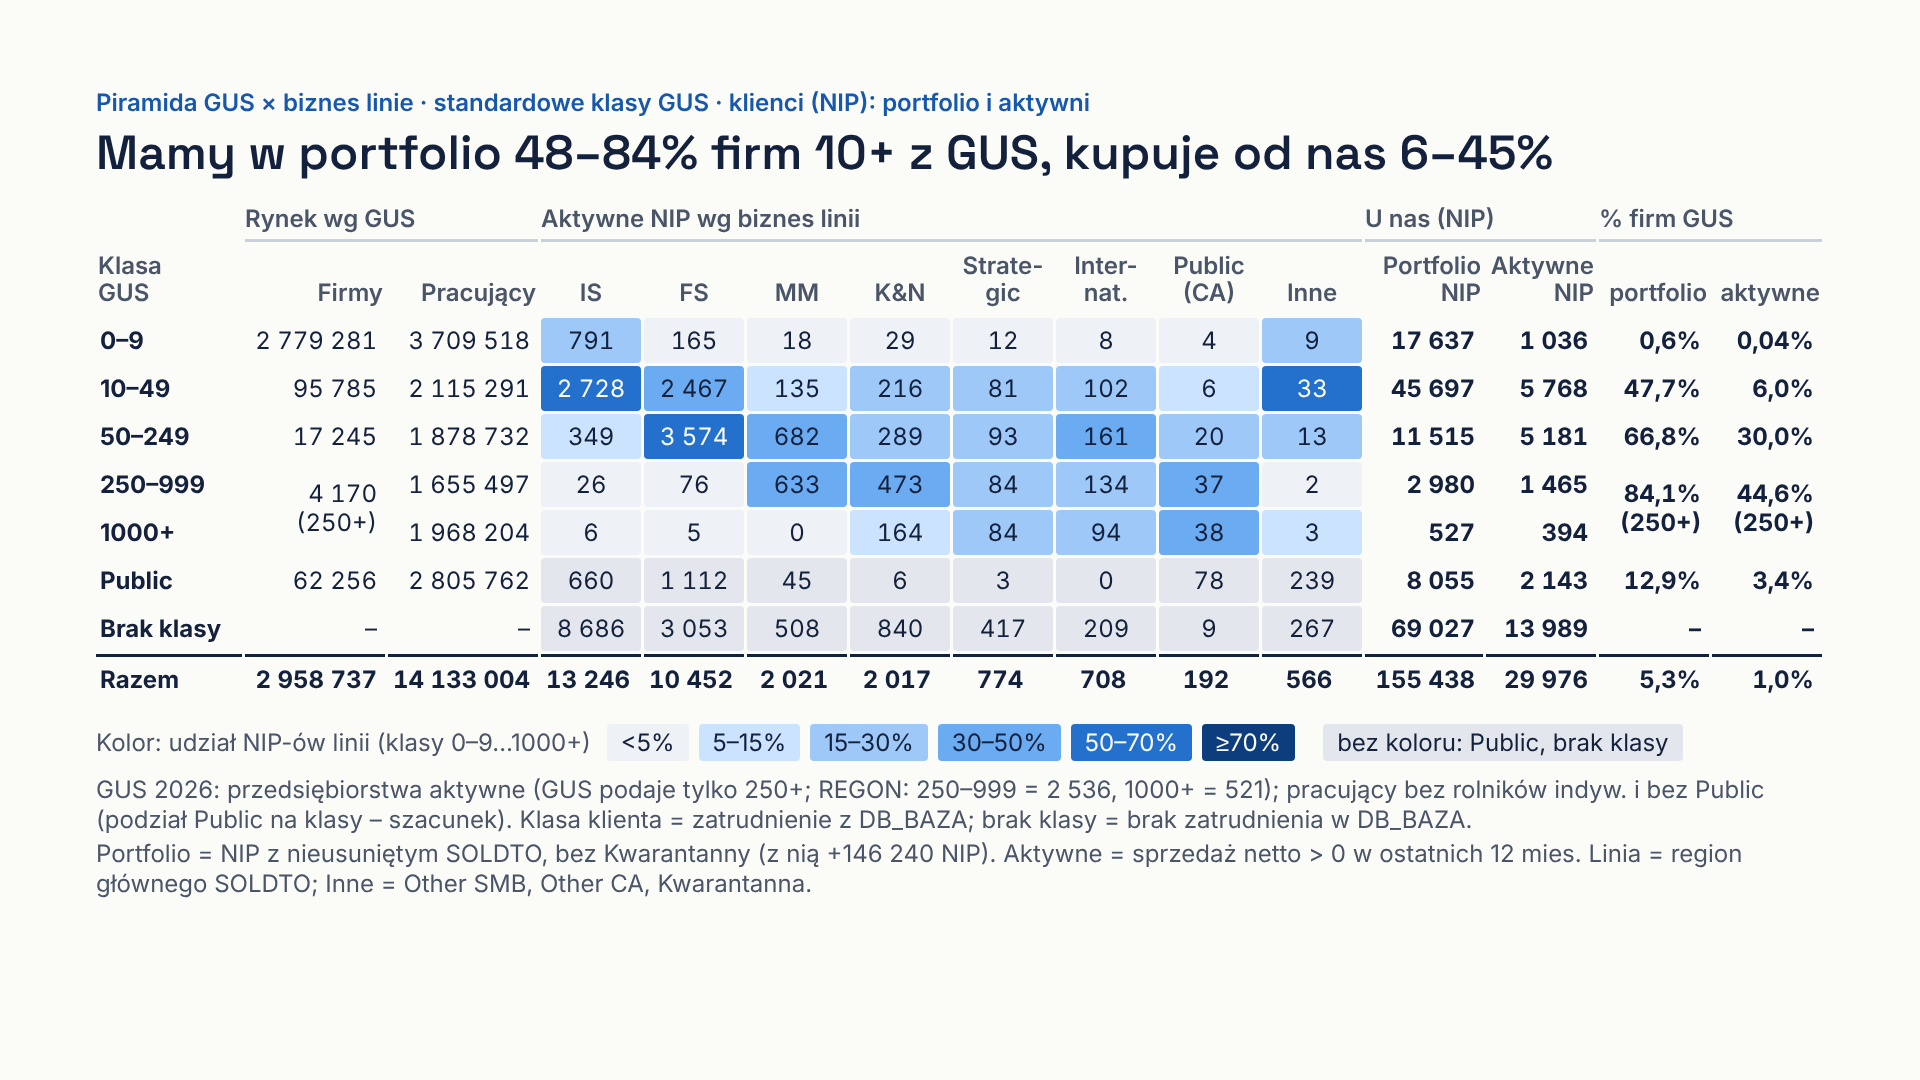
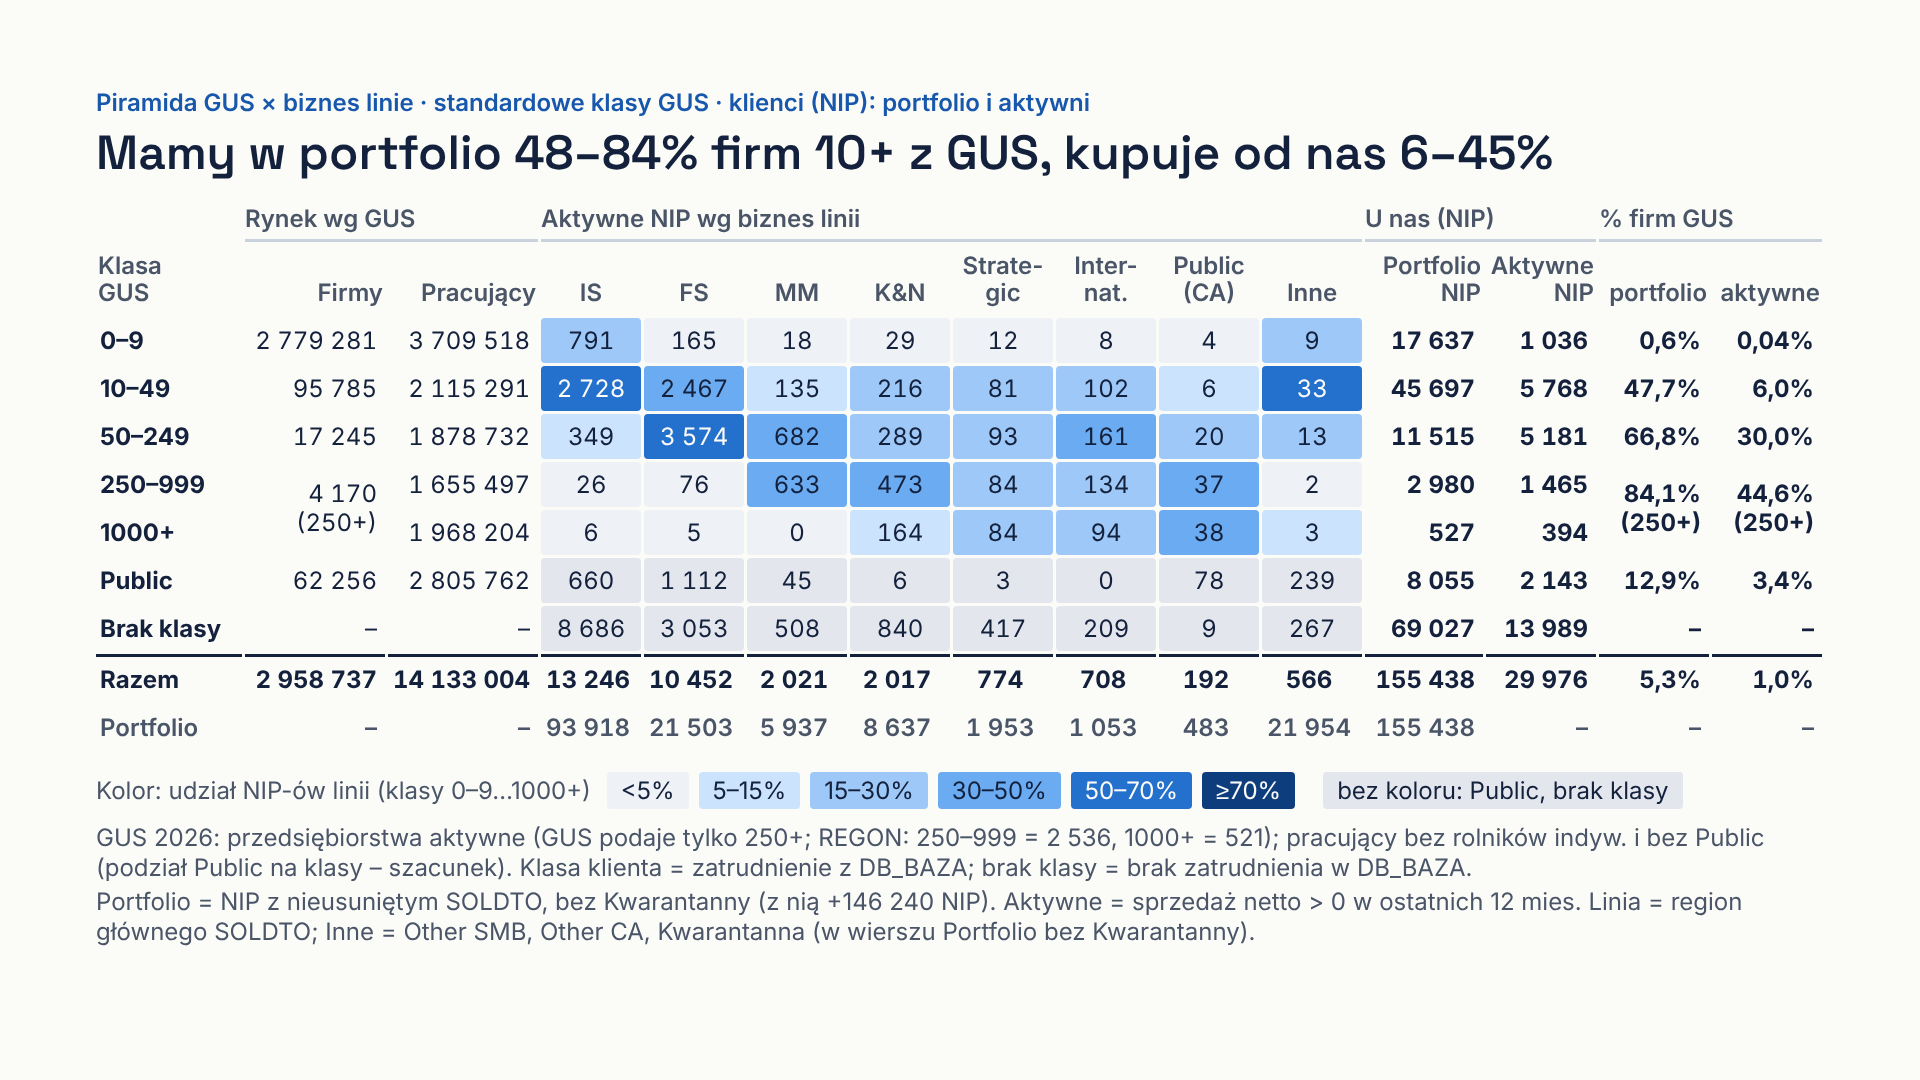
Slajd GUS x biznes linie: wiersz Portfolio NIP wg biznes linii (D26, bez Kwarantanny)
Claude-Session: https://claude.ai/code/session_01XKqyymM4iGumhJbEjTSpGW

Changed region(s): [[0.0312, 0.6417, 0.9062, 0.8861]]

diff --git a/piramida_klientow/prezentacja/slajd_gus_x_biznes_linie/slides/macierz.html b/piramida_klientow/prezentacja/slajd_gus_x_biznes_linie/slides/macierz.html
@@ -148,6 +148,22 @@
 <p class="suma razem">29 976</p>
 <p class="suma razem">5,3%</p>
 <p class="suma razem">1,0%</p>
+
+<p class="wiersz port">Portfolio</p>
+<p class="suma port">–</p>
+<p class="suma port">–</p>
+<p class="suma port-c">93 918</p>
+<p class="suma port-c">21 503</p>
+<p class="suma port-c">5 937</p>
+<p class="suma port-c">8 637</p>
+<p class="suma port-c">1 953</p>
+<p class="suma port-c">1 053</p>
+<p class="suma port-c">483</p>
+<p class="suma port-c">21 954</p>
+<p class="suma port">155 438</p>
+<p class="suma port">–</p>
+<p class="suma port">–</p>
+<p class="suma port">–</p>
 </div>
 <div class="legenda">
 <p class="leg-txt">Kolor: udział NIP-ów linii (klasy 0–9…1000+)</p>
@@ -160,7 +176,7 @@
 <p class="chip pub chip-pub">bez koloru: Public, brak klasy</p>
 </div>
 <p class="przypis">GUS 2026: przedsiębiorstwa aktywne (GUS podaje tylko 250+; REGON: 250–999 = 2 536, 1000+ = 521); pracujący bez rolników indyw. i bez Public (podział Public na klasy – szacunek). Klasa klienta = zatrudnienie z DB_BAZA; brak klasy = brak zatrudnienia w DB_BAZA.</p>
-<p class="przypis">Portfolio = NIP z nieusuniętym SOLDTO, bez Kwarantanny (z nią +146 240 NIP). Aktywne = sprzedaż netto &gt; 0 w ostatnich 12 mies. Linia = region głównego SOLDTO; Inne = Other SMB, Other CA, Kwarantanna.</p>
+<p class="przypis">Portfolio = NIP z nieusuniętym SOLDTO, bez Kwarantanny (z nią +146 240 NIP). Aktywne = sprzedaż netto &gt; 0 w ostatnich 12 mies. Linia = region głównego SOLDTO; Inne = Other SMB, Other CA, Kwarantanna (w wierszu Portfolio bez Kwarantanny).</p>
 <aside>Lewa strona to rynek wprost z GUS, w standardowych klasach wielkości, bez żadnego dzielenia. GUS podaje liczbę przedsiębiorstw aktywnych tylko dla 250+, dlatego ta komórka obejmuje dwa wiersze; podział z REGON jest w przypisie.
 
 Środek to aktywne NIP-y (sprzedaż netto powyżej zera w ostatnich 12 miesiącach) według biznes linii, czyli regionu głównego SOLDTO. Kolor to udział NIP-ów danej linii w klasach 0–9 do 1000+; Public i NIP-y bez klasy są bez koloru.

diff --git a/piramida_klientow/prezentacja/slajd_gus_x_biznes_linie/deck.css b/piramida_klientow/prezentacja/slajd_gus_x_biznes_linie/deck.css
@@ -189,3 +189,14 @@ body {
   color: var(--muted);
   margin: 0 0 4px;
 }
+
+.port {
+  color: var(--muted);
+  font-weight: 600;
+}
+
+.port-c {
+  color: var(--muted);
+  font-weight: 600;
+  text-align: center;
+}
